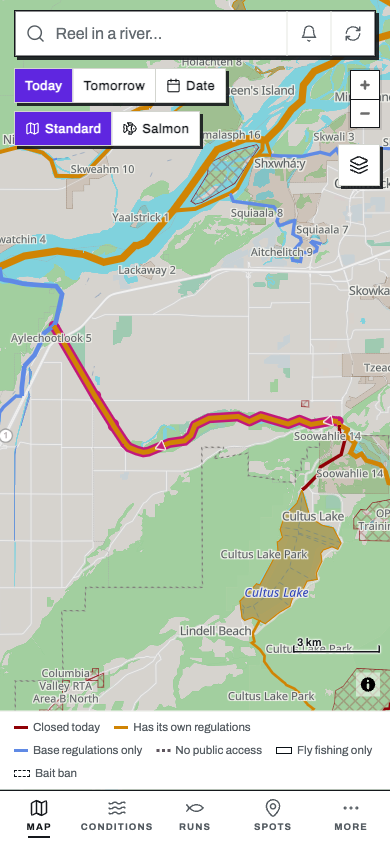
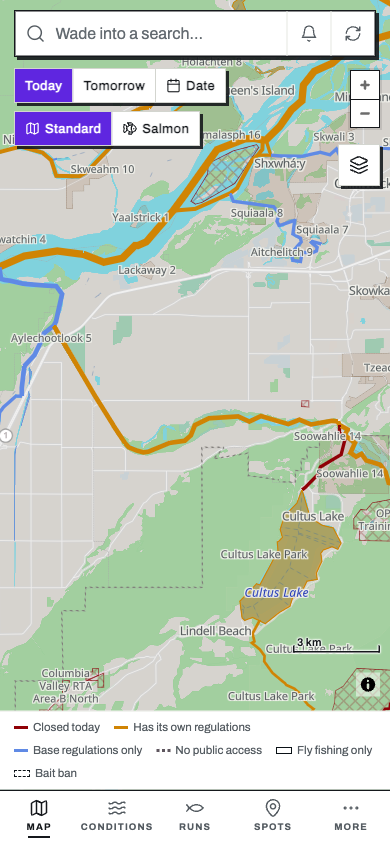
T269: back from a direct landing frames the map on the water with nothing lit, as closing a tapped pane leaves it (owner 2026-10-29); ?show= likewise

diff --git a/app/packages/ui-native/src/shell/useShellSearch.ts b/app/packages/ui-native/src/shell/useShellSearch.ts
@@ -7,7 +7,7 @@
  */
 import { useCallback, useEffect, useRef, useState, type MutableRefObject } from "react";
 import { Keyboard, useWindowDimensions, type TextInput } from "react-native";
-import type { ItemId, SectionId, WaterSource } from "@app/data";
+import type { ItemId, WaterSource } from "@app/data";
 import { NO_SEARCH, searchStep, useRecentSearches, useSearchSession, type SearchAction, type SearchMemory } from "@app/ui";
 import type { Camera } from "@app/map";
 import { searchPanelWidth } from "../TopBar";
@@ -77,9 +77,7 @@ export function useShellSearch({ source, nav, camera, recentStore }: {
    * move of the route, so a later return (a map tap's water, then back) is never dragged back to it.
    */
   const [arrive, setArrive] = useState<{ key: string; bbox: readonly [number, number, number, number];
-                                         refine: boolean;
-                                         /** (T269) the water lit on the map it arrives at (a landing's water); absent: none */
-                                         highlight?: readonly SectionId[] } | null>(null);
+                                         refine: boolean } | null>(null);
   const arrivals = useRef(0);
   const arrivedAt = useRef<typeof route | null>(null);
   useEffect(() => {
@@ -106,13 +104,14 @@ export function useShellSearch({ source, nav, camera, recentStore }: {
   /**
    * (T269, owner 2026-10-29) THE PAGE STARTED ON A WATER (a `/water/<slug>` page, a start link) or at one (`?show=`):
    * the map, whenever it comes back — the ‹ or × of that first water, the system back — comes back FRAMED ON THAT WATER,
-   * LIT, never on wherever the map last was. The same arrival as a searched water's, once, forgotten at the next move.
+   * as it stands under a tapped water's pane; nothing is lit (owner 2026-10-29: closing leaves the map as closing a tapped
+   * pane does — the camera kept, no selection). The same arrival as a searched water's, once, forgotten at the next move.
    */
   const landOn = (id: ItemId) => {
     const n = ++arrivals.current;
     arrivedAt.current = null;
-    void Promise.all([source.water(id), source.waterBox(id)]).then(([w, bbox]) => {
-      if (bbox && arrivals.current === n) setArrive({ key: `arrive:${id}:${n}`, bbox, refine: false, highlight: w?.sections ?? [] });
+    void source.waterBox(id).then((bbox) => {
+      if (bbox && arrivals.current === n) setArrive({ key: `arrive:${id}:${n}`, bbox, refine: false });
     });
   };
   /** One step of search (`searchStep`): a pick lowers the sheet to half, so the keyboard goes with it. */

diff --git a/app/packages/ui/src/startLink.ts b/app/packages/ui/src/startLink.ts
@@ -53,7 +53,8 @@ export interface StartLink {
   /**
    * (T269, owner 2026-10-29) THE MAP COMES BACK AT THIS WATER: a page that started on a named water (a `/water/<slug>`
    * page, `?regs=`) — or `?show=<item>`, the map at a water, the link a water page's ‹ and × are before the app runs —
-   * returns to the map framed on that water with it lit, never to wherever the map last was. Null: none.
+   * returns to the map framed on that water (nothing lit: as closing a tapped water leaves it), never to wherever the map
+   * last was. Null: none.
    */
   arrive: ItemId | null;
 }
@@ -84,7 +85,7 @@ export function parseStartLink(search: string, now: Date = new Date()): StartLin
   const bad = (k: string, what: string): never => { throw new Error(`start link: ${k}=${q.get(k)} is not ${what}`); };
   const ITEM = /^[a-z]+:-?\d+$/;
   if (item === null) {
-    // (T269) `?show=<item>`: the map, framed on that water, lit
+    // (T269) `?show=<item>`: the map, framed on that water (nothing lit)
     const show = q.get("show");
     if (show === null) return null;
     if (!ITEM.test(show)) bad("show", "an item id");

diff --git a/app/packages/ui-native/src/shell/BrowseHost.tsx b/app/packages/ui-native/src/shell/BrowseHost.tsx
@@ -191,8 +191,7 @@ export function BrowseHost({ nav, col, search, rail, palette, theme, themeName, 
                          : restore ? { key: restore.key, bbox: null, camera: restore.camera } : null}
                      // WHAT SEARCH LIGHTS, whole, while search is open — on either map; closed, nothing (the Conditions
                      // view lights a gauge's route with the same feature-state and must not inherit a search)
-                     // (T269) — and, arrived at a page's own water (its ‹ / × back to the map), that water
-                     highlight={searching ? session.focus?.highlight ?? NONE : arrive?.highlight ?? NONE}
+                     highlight={searching ? session.focus?.highlight ?? NONE : NONE}
                      standing={cond.standing}
                      lakes={lakeFeed}
                      salmon={salmonFeed}

diff --git a/app/packages/ui-native/src/shell/props.ts b/app/packages/ui-native/src/shell/props.ts
@@ -83,7 +83,7 @@ export interface ShellProps {
   initialDay?: Date | null;
   /** (T41) where the first water's Regulations page starts (the web start link): handed to that page once. */
   regsStart?: RegsStart | null;
-  /** (T269) the water the page started on or at (the web start link's `arrive`): the map comes back framed on it, lit. Read once. */
+  /** (T269) the water the page started on or at (the web start link's `arrive`): the map comes back framed on it (nothing lit). Read once. */
   arriveAt?: ItemId | null;
   /** The platform's location, for the Spots menu's "At my location" (the app's). Absent -> not offered. */
   locate?: Locate | null;
